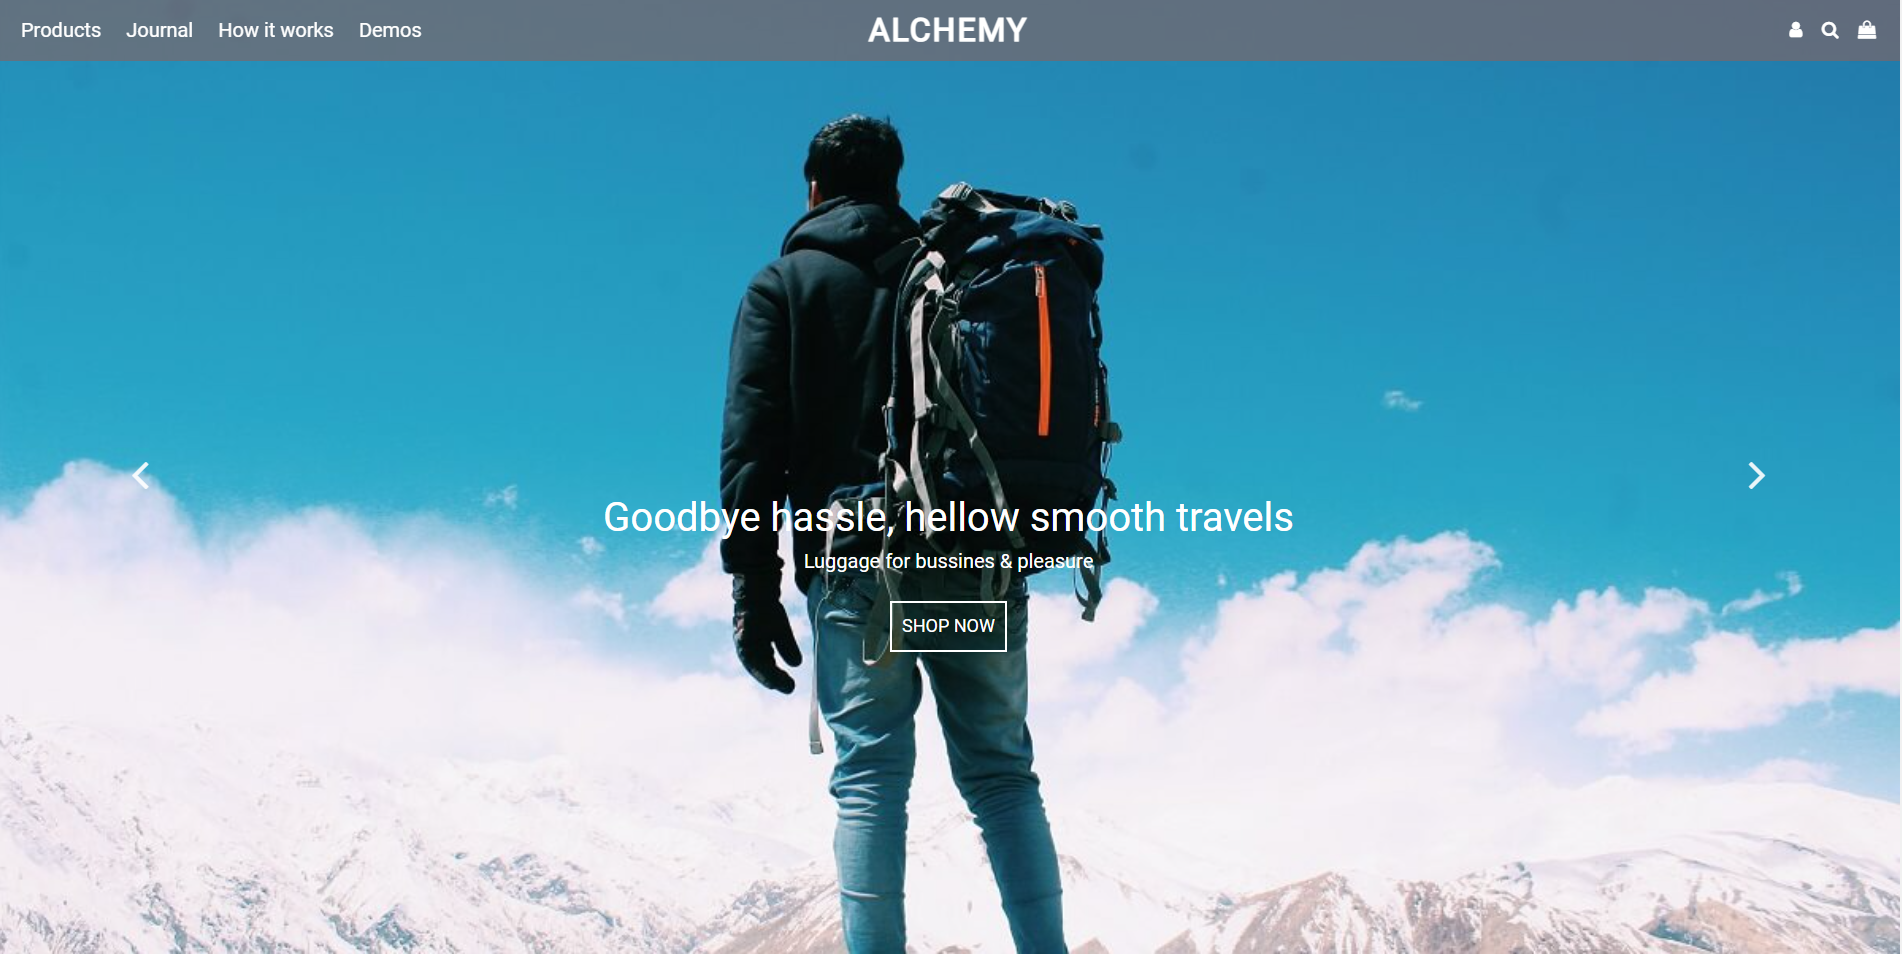
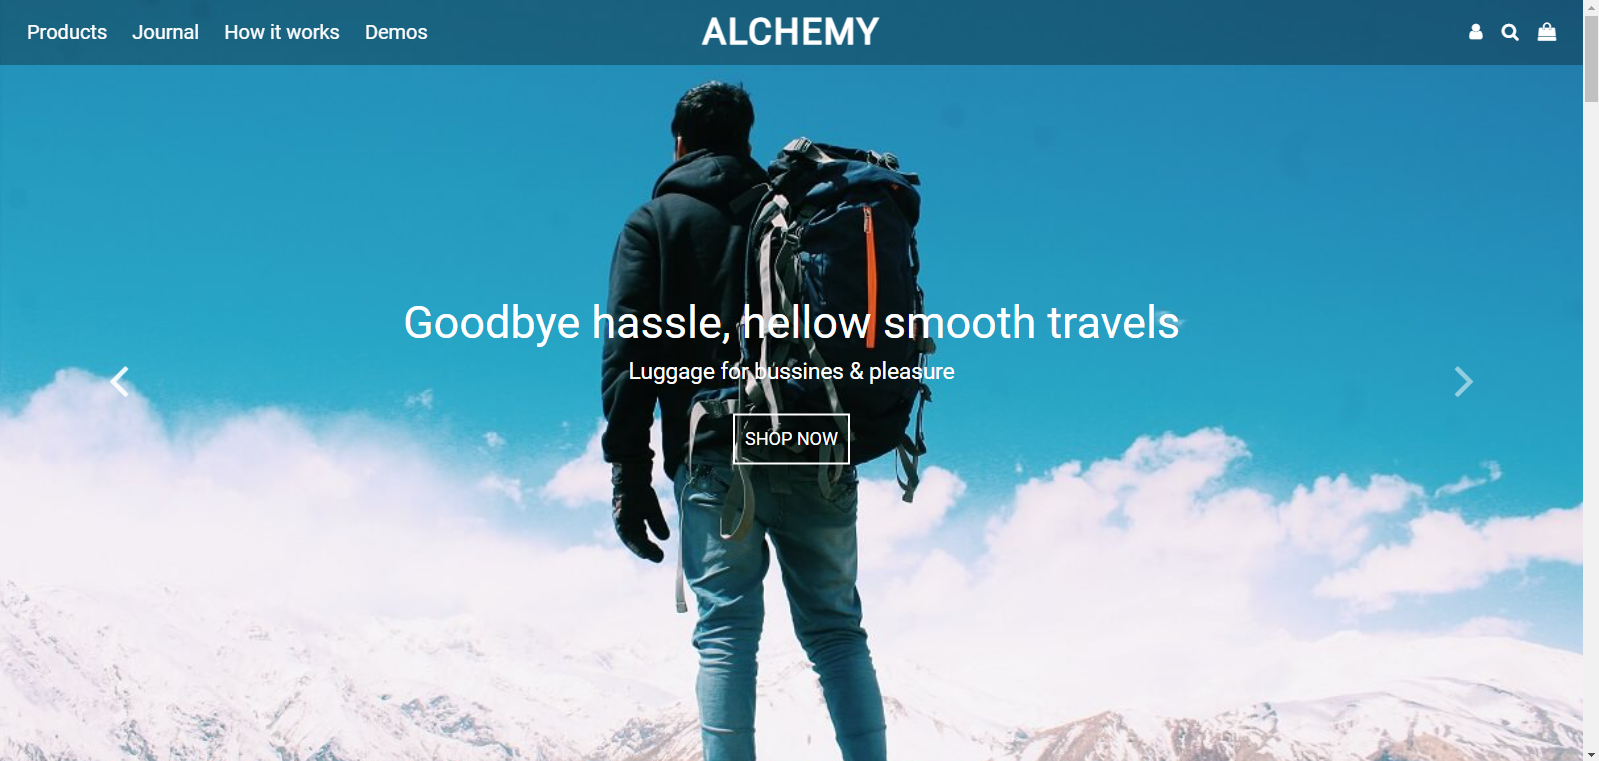
scroll svg added and footer style changes

diff --git a/css/style.css b/css/style.css
@@ -1,3 +1,4 @@
+@charset "UTF-8";
 * {
   box-sizing: border-box;
   margin: 0;
@@ -112,6 +113,7 @@ nav .btn_toggle {
 }
 /* main section starts here */
 .main-content .main-content-content {
+  position: relative;
   width: 100%;
   height: 100%;
   min-height: 100vh;
@@ -152,6 +154,56 @@ nav .btn_toggle {
   width: 90%;
 }
 
+.scroll-svg-container {
+  position: absolute;
+  bottom: -5%;
+  left: 50%;
+  transform: translateX(-50%);
+  max-width: 60px;
+  width: 100%;
+}
+
+.scroll-svg-container .arrows {
+  width: 60px;
+}
+
+.scroll-svg-container .arrows path {
+  stroke: #2994D1;
+  fill: transparent;
+  stroke-width: 1px;
+  animation: arrow 2s infinite;
+  -webkit-animation: arrow 2s infinite;
+}
+
+@keyframes arrow {
+  0% {
+    opacity: 0;
+  }
+  40% {
+    opacity: 1;
+  }
+  80% {
+    opacity: 0;
+  }
+  100% {
+    opacity: 0;
+  }
+}
+.scroll-svg-container .arrows path.a1 {
+  animation-delay: 0s;
+  -webkit-animation-delay: -1s; /* Safari 和 Chrome */
+}
+
+.scroll-svg-container .arrows path.a2 {
+  animation-delay: 0.5s;
+  -webkit-animation-delay: -0.5s; /* Safari 和 Chrome */
+}
+
+.scroll-svg-container .arrows path.a3 {
+  animation-delay: 1s;
+  -webkit-animation-delay: 0s; /* Safari 和 Chrome */
+}
+
 /* main content section ends here */
 /* about section starts here */
 .about-section {
@@ -161,16 +213,19 @@ nav .btn_toggle {
 .about-section .about-container {
   width: 95%;
   max-width: 1280px;
+  height: 100vh;
   margin: 0 auto;
+  padding: 100px 0 0 0;
 }
 .about-section .about-title {
-  margin-bottom: 0.5rem;
+  margin-bottom: 0.75rem;
 }
 .about-section .about-description {
   width: 100%;
   max-width: 1052px;
   margin-bottom: 1rem;
   font-size: 1rem;
+  line-height: 38px;
 }
 .about-section .about-description strong {
   color: coral;
@@ -180,7 +235,7 @@ nav .btn_toggle {
   margin-bottom: 1rem;
 }
 .about-section .about-list li {
-  margin-bottom: 0.5rem;
+  margin-bottom: 1rem;
 }
 .about-section .about-list li:last-child {
   margin-bottom: 0;
@@ -211,15 +266,14 @@ nav .btn_toggle {
 }
 
 .footer {
-  background: linear-gradient(180deg, rgba(255, 255, 225, 0) 0%, rgb(53, 134, 255) 80%);
+  background: linear-gradient(180deg, rgba(0, 0, 0, 0.5) 0%, rgb(53, 134, 255) 65%);
 }
 .footer .footer-inner-wrapper {
-  margin-top: 75px;
+  margin-top: 50px;
   position: relative;
   top: 0;
   width: 100%;
   height: inherit;
-  background: #3586ff;
 }
 .footer .footer-content {
   display: flex;
@@ -264,11 +318,12 @@ nav .btn_toggle {
   text-decoration: none;
 }
 .footer .wave {
+  display: none;
   position: absolute;
-  top: -75px;
+  top: -50px;
   left: 0;
   width: 100%;
-  height: 75px;
+  height: 50px;
   background: url("../contact/img/wave.png");
   background-size: 1000px 100px;
 }
@@ -391,17 +446,27 @@ main, footer {
   }
   .main-content .left-side {
     width: 100%;
+    padding-top: 30px;
+    align-items: flex-start;
   }
   .main-content .left-side .text {
     margin-top: 80px;
   }
   .main-content .right-side {
+    display: none;
     text-align: right;
     align-items: flex-end;
     width: 100%;
   }
   .main-content .right-side .img img {
     width: 68%;
+  }
+  .scroll-svg-container {
+    bottom: 10%;
+  }
+  footer {
+    display: block;
+    margin-top: 120px;
   }
   /* main content section ends here */
 }

diff --git a/css/style.scss b/css/style.scss
@@ -43,6 +43,7 @@ body {
 .main-content {
 
     .main-content-content {
+        position: relative;
         width: 100%;
         height: 100%;
         min-height: 100vh;
@@ -97,25 +98,41 @@ font-weight: 600;
     width: 90%;
 }
 
+// scroll svg CSS
+.scroll-svg-container {
+    position: absolute;
+    bottom: -5%;
+    left: 50%;
+    transform: translateX(-50%);
+    max-width: 60px;
+    width: 100%;
+}
+
+@import './scroll-arrow';
+
 /* main content section ends here */
 
 /* about section starts here */
 .about-section {
     color: #fff;
     margin-bottom: 1rem;
+    // scroll-margin-top: 100px;
     .about-container {
         width: 95%;
         max-width: 1280px;
+        height: 100vh;
         margin: 0 auto;
+        padding: 100px 0 0 0;
     }
     .about-title {
-        margin-bottom: 0.5rem;
+        margin-bottom: 0.75rem;
     }
     .about-description {
         width: 100%;
         max-width: 1052px;
         margin-bottom: 1rem;
         font-size: 1rem;
+        line-height: 38px;
         strong {
             color: coral;
         }
@@ -124,7 +141,7 @@ font-weight: 600;
         list-style-type: none;
         margin-bottom: 1rem;
         li {
-            margin-bottom: 0.5rem;
+            margin-bottom: 1rem;
 
             &:last-child {
                 margin-bottom: 0;
@@ -219,11 +236,14 @@ $waveImgPath: "../contact/img/wave.png";
     }
     .main-content .left-side {
         width: 100%;
+        padding-top: 30px;
+        align-items: flex-start;
     }
     .main-content .left-side .text {
         margin-top: 80px;
     }
     .main-content .right-side {
+        display: none;
         text-align: right;
         -webkit-box-align: end;
             -ms-flex-align: end;
@@ -232,6 +252,13 @@ $waveImgPath: "../contact/img/wave.png";
     }
     .main-content .right-side .img img {
         width: 68%;
+    }
+    .scroll-svg-container {
+        bottom: 10%;
+    }
+    footer {
+        display: block;
+        margin-top: 120px;
     }
     /* main content section ends here */
 }

diff --git a/index.html b/index.html
@@ -67,6 +67,14 @@
                     <img src="img/myimg.png" alt="yusuf">
                 </div>
             </div>
+
+            <div class="scroll-svg-container">
+                <svg class="arrows">
+                    <path class="a1" d="M0 0 L30 32 L60 0"></path>
+                    <path class="a2" d="M0 20 L30 52 L60 20"></path>
+                    <path class="a3" d="M0 40 L30 72 L60 40"></path>
+                </svg>
+            </div>
         </section>
 
         <section class="about-section" id="about-section">
@@ -82,7 +90,7 @@
                     <li><span class="fa fa-phone"> Mobile:</span> <a href="tel:+917666330242">+917666330242</a></li>
                     <li><span class="fa fa-whatsapp"> Whatsapp:</span> <a href="https://wa.me/+917666330242" target="_blank">+917666330242</a></li>
                 </ul>
-                <a href="https://1drv.ms/w/s!ApFs3aW1cnqri7wvICcBRAGDj1LOQg?e=PE2Ehg" target="_blank" class="about-btn">Resume</a>
+                <a href="https://1drv.ms/w/s!AjKB_jTQoQGu1RW3GqW0YLnK0HWT?e=g574i0" target="_blank" class="about-btn">Resume</a>
             </div>
         </section>
 	</main>

diff --git a/contact/index.html b/contact/index.html
@@ -81,15 +81,15 @@
                         <textarea name="message" autocomplete="off" id="message_box" cols="30" rows="10" form="myform" placeholder="Message"></textarea>
         
                         <!-- <input type="submit"> -->
-                        <input type="submit" id="send-email" value="Send Email" />
+                        <input type="submit" id="send-email" value="Send" />
                         
                     </form>
         
                 </section>
         
                 <section class="common-section note-section">
-                    <p>I have finally learned to send the form to my email 😃 using email.js </p>
-                    <p>Please fill the form and email the details to me by clicking on <b>Send Email</b> button</p>
+                    <!-- <p>I have finally learned to send the form to my email 😃 using email.js </p> -->
+                    <p>Please fill the form and email the details to me by clicking on <b>Send</b> button</p>
                     <ul id="error_ul"></ul>
         
                 </section>

diff --git a/contact/css/style.css b/contact/css/style.css
@@ -199,15 +199,14 @@ main form input[type=submit]:hover {
 }
 
 .footer {
-  background: linear-gradient(180deg, rgba(255, 255, 225, 0) 0%, rgb(53, 134, 255) 80%);
+  background: linear-gradient(180deg, rgba(0, 0, 0, 0.5) 0%, rgb(53, 134, 255) 65%);
 }
 .footer .footer-inner-wrapper {
-  margin-top: 75px;
+  margin-top: 50px;
   position: relative;
   top: 0;
   width: 100%;
   height: inherit;
-  background: #3586ff;
 }
 .footer .footer-content {
   display: flex;
@@ -252,11 +251,12 @@ main form input[type=submit]:hover {
   text-decoration: none;
 }
 .footer .wave {
+  display: none;
   position: absolute;
-  top: -75px;
+  top: -50px;
   left: 0;
   width: 100%;
-  height: 75px;
+  height: 50px;
   background: url("../img/wave.png");
   background-size: 1000px 100px;
 }

diff --git a/css/_scroll-arrow.scss b/css/_scroll-arrow.scss
@@ -1,0 +1,34 @@
+.scroll-svg-container .arrows {
+	width: 60px;
+}
+
+.scroll-svg-container .arrows path {
+	stroke: #2994D1;
+	fill: transparent;
+	stroke-width: 1px;	
+	animation: arrow 2s infinite;
+	-webkit-animation: arrow 2s infinite; 
+}
+
+@keyframes arrow
+{
+0% {opacity:0}
+40% {opacity:1}
+80% {opacity:0}
+100% {opacity:0}
+}
+
+.scroll-svg-container .arrows path.a1 {
+	animation-delay:0s;
+	-webkit-animation-delay:-1s; /* Safari 和 Chrome */
+}
+
+.scroll-svg-container .arrows path.a2 {
+	animation-delay:0.5s;
+	-webkit-animation-delay:-0.5s; /* Safari 和 Chrome */
+}
+
+.scroll-svg-container .arrows path.a3 {	
+	animation-delay:1s;
+	-webkit-animation-delay:0s; /* Safari 和 Chrome */
+}

diff --git a/css/_footer.scss b/css/_footer.scss
@@ -1,7 +1,8 @@
 .footer {
-    $wave-value: 75px;
+    // $wave-value: 75px;
+    $wave-value: 50px;
 
-    background: linear-gradient(180deg, rgba(255,255,225,0) 0%, rgba(53,134,255,1) 80%);
+    background: linear-gradient(180deg, rgba(0, 0, 0, 0.5) 0%, rgba(53, 134, 255, 1) 65%);
 
     .footer-inner-wrapper {
         margin-top: $wave-value;
@@ -9,7 +10,7 @@
         top: 0;
         width: 100%;
         height: inherit;
-        background: #3586ff;
+        // background: #3586ff;
         // min-height: $wave-value;
     }
 
@@ -60,6 +61,7 @@
     }
     
     .wave {
+        display: none;
         position: absolute;
         top: -$wave-value;
         left: 0;
